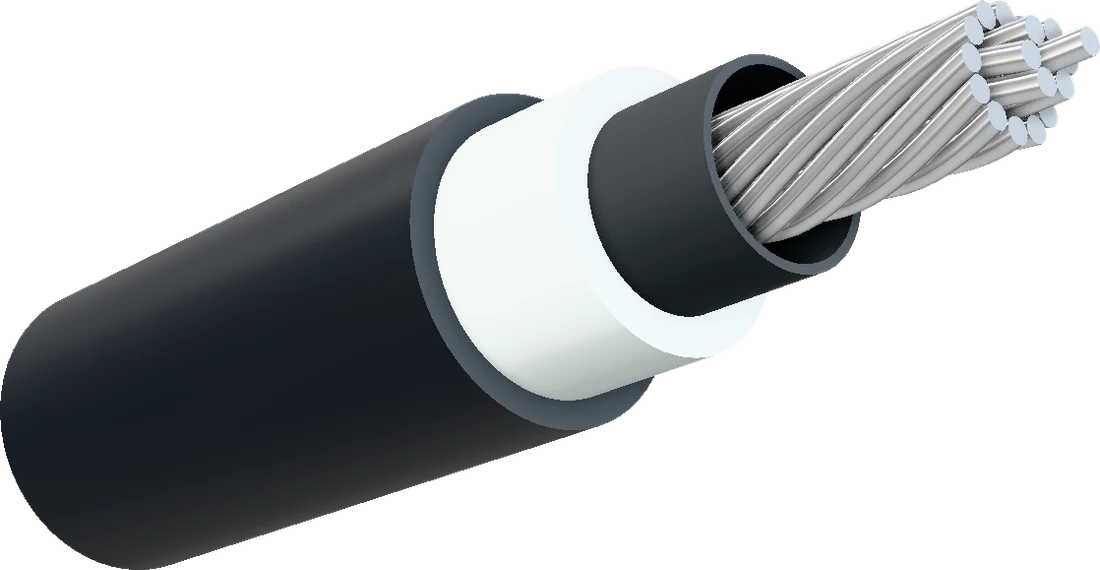
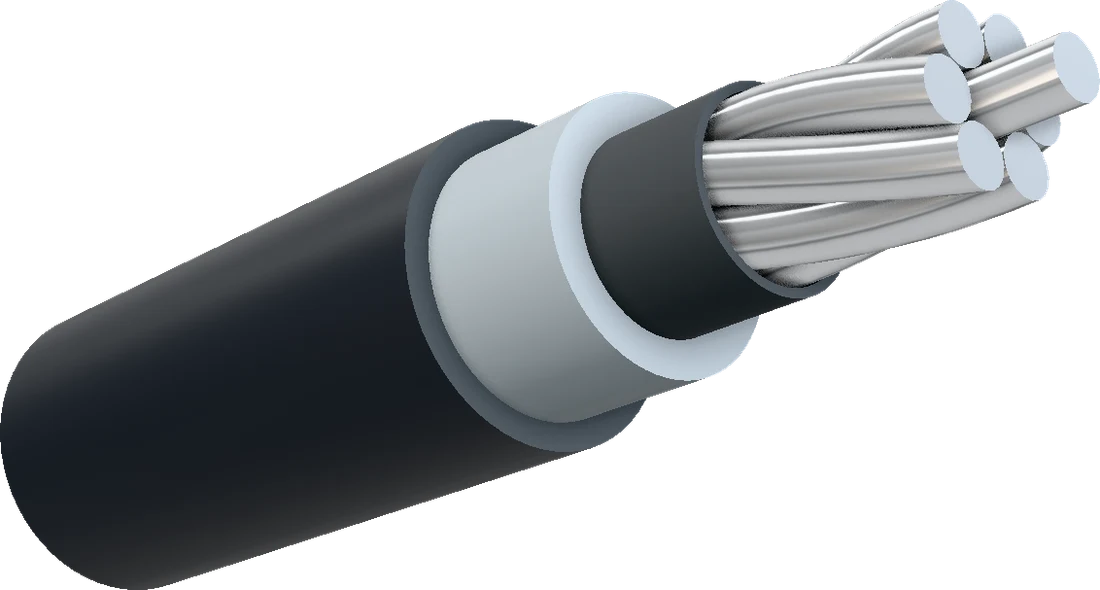
Refine service cable, MVCC, BEC and shaped-wire conductor models
- Service cable is now a flat two-core cable: oval black sheath, red and black
  insulated cores, solid aluminium conductors.
- MVCC: a 1 + 6 conductor fills the conductor screen, under a grey inner
  covering and the black outer covering.
- BEC: 19 bright galvanised steel wires, cut flush, with a long lay.
- Carbon Core, GAP and ECO Panther separate as stepped sections (each layer
  slides back and its wires part evenly, without turning), with a flat
  orthographic end view showing concentric rings.
- The range navigator drops the set links; Catalogue PDF follows Earth Wire.

diff --git a/lib/cable-separation.ts b/lib/cable-separation.ts
@@ -141,14 +141,39 @@ export function buildPowerCable(xlpe: boolean, m: CableMaterials) {
   return kit
 }
 
-/** Single-core service cable: black sheath, coloured insulation and a stranded aluminium conductor. */
+/**
+ * Two-core flat service cable: an oval black sheath around two side-by-side cores, red and black insulated, each with a
+ * solid round aluminium conductor. Separating slides the sheath back, parts the cores and peels their insulation.
+ */
 export function buildServiceCable(m: CableMaterials) {
-  const kit = layerKit('Single-core service cable')
-  kit.peel({ outer: .44, inner: .34, bottom: -2.8, top: .3, lip: 1.3, window: [.03, .36], out: .7, back: .25 }, [m.rubber, m.cutFace], 'Black outer sheath')
-  kit.peel({ outer: .29, inner: .206, bottom: -2.8, top: 2.5, lip: 1.6, split: Math.PI / 2, window: [.3, .66], out: .5, back: .18 }, [m.colours[0], m.colours[0]], 'Red insulation')
-  const strand = .203 / 5.15, positions: [number, number][] = [[0, 0]]
-  for (let ring = 1; ring <= 2; ring++) for (let i = 0; i < ring * 6; i++) { const a = i * Math.PI * 2 / (ring * 6); positions.push([Math.cos(a) * strand * 2.03 * ring, Math.sin(a) * strand * 2.03 * ring]) }
-  kit.strands({ positions, radius: strand, bottom: -2.8, still: 1.6, top: 3.05, centre: [0, 0], window: [.6, 1], spread: .32, tipLength: 1.3 }, m.aluminium, 'Stranded aluminium conductor')
+  const kit = layerKit('Two-core service cable')
+  const pitch = .29, insulation = .262, conductor = .165, bottom = -2.8
+  // Oval (flat twin) sheath: a stadium-shaped ring, extruded along the cable.
+  const stadium = (halfLength: number, radius: number) => {
+    const shape = new T.Shape()
+    shape.absarc(halfLength, 0, radius, -Math.PI / 2, Math.PI / 2, false)
+    shape.absarc(-halfLength, 0, radius, Math.PI / 2, Math.PI * 3 / 2, false)
+    return shape
+  }
+  const outline = stadium(pitch, insulation + .095), hole = stadium(pitch, insulation + .006)
+  outline.holes.push(new T.Path(hole.getPoints(48).reverse()))
+  const sheathTop = .3, sheath = new T.ExtrudeGeometry(outline, { depth: sheathTop - bottom, steps: 1, curveSegments: 36, bevelEnabled: true, bevelThickness: .012, bevelSize: .01, bevelSegments: 2 })
+  sheath.rotateX(-Math.PI / 2)
+  sheath.translate(0, bottom, 0)
+  kit.carried(sheath, [m.cutFace, m.rubber] as unknown as T.Material, (y, value) => new T.Vector3(0, -stage(value, .03, .38) * 1.1, 0), 'Black oval outer sheath')
+  const cores = [{ x: -pitch, colour: m.colours[0], insulationTop: 1.25, top: 2.85, name: 'Red' }, { x: pitch, colour: m.colours[3], insulationTop: .62, top: 2.55, name: 'Black' }]
+  cores.forEach((core, index) => {
+    // The cores part sideways, each away from the other.
+    const offset: Offset = (y, value) => new T.Vector3(Math.sign(core.x) * stage(value, .3, .7) * .32 * smooth((y + .6) / 2.4), 0, 0)
+    const centre: Offset = (y, value) => new T.Vector3(core.x, 0, 0).add(offset(y, value))
+    kit.peel({ outer: insulation, inner: conductor + .004, bottom, top: core.insulationTop, lip: .7, split: index ? Math.PI : 0, centre, window: [.56, .9], out: .32, back: .14, sides: 56 }, [core.colour, core.colour], `${core.name} insulation`)
+    // A solid round aluminium conductor, split along its length so it bends smoothly as the core parts.
+    const solid = new T.CylinderGeometry(conductor, conductor, core.top - bottom, 48, 40)
+    solid.translate(core.x, (core.top + bottom) / 2, 0)
+    kit.carried(solid, m.aluminium, offset, `${core.name} core · solid aluminium conductor`)
+  })
+  // Turn the flat side towards the viewer, so both cores show side by side.
+  kit.group.rotation.y = Math.PI / 2 - .35
   kit.separate(0)
   return kit
 }
@@ -157,14 +182,16 @@ export function buildServiceCable(m: CableMaterials) {
 export function buildCoveredConductor(m: CableMaterials) {
   const kit = layerKit('Covered conductor for overhead lines')
   kit.peel({ outer: .7, inner: .58, bottom: -2.8, top: .25, lip: 1.3, window: [.03, .3], out: 1, back: .35 }, [m.rubber, m.cutFace], 'Black weather-resistant covering')
-  kit.peel({ outer: .58, inner: .42, bottom: -2.8, top: .95, lip: 1.2, split: Math.PI / 2, window: [.24, .5], out: .85, back: .3 }, [m.pale, m.pale], 'Pale inner covering')
+  const grey = new T.MeshPhysicalMaterial({ color: 0x737b80, roughness: .5, clearcoat: .15 })
+  kit.peel({ outer: .58, inner: .42, bottom: -2.8, top: .95, lip: 1.2, split: Math.PI / 2, window: [.24, .5], out: .85, back: .3 }, [grey, grey], 'Light grey XLPE inner covering')
   kit.peel({ outer: .42, inner: .38, bottom: -2.8, top: 1.55, lip: 1, split: Math.PI / 4, window: [.44, .66], out: .65, back: .22 }, [m.bedding, m.bedding], 'Semi-conducting screen')
   const metals = conductorMaterials()
-  const built = buildConductor('aaac', metals, { length: 5.7, wire: .105, step: .16, layers: constructions.aaac.slice(0, 3) })
+  // 1 + 6 wires whose outer diameter fills the screen (inner radius .38): wire diameter .38 / 1.5, less a hair of clearance.
+  const built = buildConductor('aaac', metals, { length: 5.7, wire: .2515, step: .34, layers: constructions.aaac.slice(0, 2) })
   built.group.rotation.x = -Math.PI / 2
   built.group.position.y = 2.9
   kit.group.add(built.group)
   kit.updates.push(separableConductor(built.group, { reach: 1.5, spread: .42, from: .62, to: 1 }))
   kit.separate(0)
-  return { ...kit, dispose() { kit.dispose(); built.dispose(); Object.values(metals).forEach(material => material.dispose()) } }
+  return { ...kit, dispose() { kit.dispose(); built.dispose(); grey.dispose(); Object.values(metals).forEach(material => material.dispose()) } }
 }

diff --git a/lib/product-viewer.ts b/lib/product-viewer.ts
@@ -39,7 +39,9 @@ export function productModel(slug: string) {
     if (slug === 'acsr') layers = [...constructions.acsr, { count: 24, metal: 'aluminium', shape: 'round' }]
     if (slug === 'gi-earth-wire') layers = constructions.aac.slice(0, 3).map(layer => ({ ...layer, metal: 'steel' }))
     if (slug === 'eco-panther') layers = layers.map(layer => ({ ...layer, metal: 'alloy' }))
-    const built = buildConductor(kind, metals, { length: 6, wire: .2, step: .55, layers })
+    // BEC is cut flush, with the long lay of a buried earth strand; every other conductor shows its stepped layers.
+    const flush = slug === 'bec'
+    const built = buildConductor(kind, metals, { length: 6, wire: .2, step: flush ? 0 : .55, layers, layScale: flush ? 2.4 : 1 })
     root.add(built.group)
     // Layers flare open in place (lib/layer-separation.ts) instead of sliding apart.
     customSeparate = separableConductor(built.group)
@@ -126,6 +128,8 @@ export function createProductViewer(canvas: HTMLCanvasElement, slug: string, onR
   const endCamera = new T.OrthographicCamera(-1, 1, 1, -1, .1, 100)
   const packedPowerCable = slug === 'pvc-power-cable' || slug === 'lt-xlpe-cable'
   const aerialBunch = slug === 'aerial-bunched-cable'
+  // Shaped-wire conductors separate as stepped sections; their end view is a flat axial section of concentric rings.
+  const steppedConductor = slug === 'carbon-core' || slug === 'gap' || slug === 'eco-panther'
   let orthographicEnd = false
   let environment: ReturnType<typeof createStudioEnvironment> | null = null
   // Poster capture (scripts/render-product-posters.mjs opens the page with ?poster=1) adds ambient occlusion
@@ -172,6 +176,15 @@ export function createProductViewer(canvas: HTMLCanvasElement, slug: string, onR
     } else {
       camera.position.set(0, 0, 10.6 / zoom / Math.min(camera.aspect, 1))
       camera.lookAt(0, 0, 0)
+      if (orthographicEnd) {
+        const size = visibleBounds(model.group).getSize(new T.Vector3())
+        const halfHeight = Math.max(size.y, size.x / camera.aspect) * .62 / zoom
+        endCamera.left = -halfHeight * camera.aspect; endCamera.right = halfHeight * camera.aspect
+        endCamera.top = halfHeight; endCamera.bottom = -halfHeight
+        endCamera.position.set(0, 0, 15); endCamera.lookAt(0, 0, 0)
+        endCamera.far = 100
+        endCamera.updateProjectionMatrix()
+      }
     }
     camera.updateProjectionMatrix()
     const renderCamera = orthographicEnd ? endCamera : camera
@@ -250,7 +263,7 @@ export function createProductViewer(canvas: HTMLCanvasElement, slug: string, onR
     // Bending models rebuild vertex positions, so slider input is coalesced into the next frame.
     separate(value: number) { pendingSeparation = value; request() },
     reset() { pendingSeparation = null; orthographicEnd = false; yaw = initial.yaw; pitch = initial.pitch; roll = initial.roll; zoom = 1; model?.separate(0); request() },
-    endView() { orthographicEnd = packedPowerCable || aerialBunch; yaw = 0; pitch = 0; roll = 0; zoom = slug === 'control-cable' || packedPowerCable || aerialBunch ? 1 : 2; request(); return zoom },
+    endView() { orthographicEnd = packedPowerCable || aerialBunch || steppedConductor; yaw = 0; pitch = 0; roll = 0; zoom = slug === 'control-cable' || packedPowerCable || aerialBunch || steppedConductor ? 1 : 2; request(); return zoom },
     dispose() {
       disposed = true
       cancelAnimationFrame(frame)

diff --git a/lib/conductor-models.ts b/lib/conductor-models.ts
@@ -35,8 +35,8 @@ export const constructions: Record<ConductorKind, Layer[]> = {
   // TACSR: thermal-resistant alloy over a galvanised steel core (54/7 style).
   tacsr:[{count:1, metal:'steel', shape:'round'}, {count:6, metal:'steel', shape:'round'}, {count:12, metal:'thermal', shape:'round'}, {count:18, metal:'thermal', shape:'round'}, {count:24, metal:'thermal', shape:'round'}],
   'copper-conductor':[{count:1, metal:'copper', shape:'round'}, {count:6, metal:'copper', shape:'round'}, {count:12, metal:'copper', shape:'round'}],
-  // BEC: heavily galvanised steel strand, buried in service (7 strands of thicker wire).
-  bec:[{count:1, metal:'zinc', shape:'round', size:1.35}, {count:6, metal:'zinc', shape:'round', size:1.35}],
+  // BEC: bright galvanised steel strand, 19 wires (1 + 6 + 12), laid long and cut flush.
+  bec:[{count:1, metal:'zinc', shape:'round'}, {count:6, metal:'zinc', shape:'round'}, {count:12, metal:'zinc', shape:'round'}],
 }
 
 export function conductorMaterials() {
@@ -63,8 +63,8 @@ export function conductorMaterials() {
     // Hard-drawn copper.
     copper:new T.MeshPhysicalMaterial({color:0xd0875a, metalness:1, roughness:.2, clearcoat:.2, clearcoatRoughness:.3}),
     copperCut:new T.MeshPhysicalMaterial({color:0x8a4f2e, metalness:.6, roughness:.62, envMapIntensity:.3}),
-    // Heavy hot-dip galvanising: a pale, matt zinc grey.
-    zinc:new T.MeshPhysicalMaterial({color:0x9ea6aa, metalness:.75, roughness:.5}),
+    // Hot-dip galvanising: a bright, slightly satin zinc silver.
+    zinc:new T.MeshPhysicalMaterial({color:0xc6ccd0, metalness:.92, roughness:.26, clearcoat:.15, clearcoatRoughness:.3}),
     zincCut:new T.MeshPhysicalMaterial({color:0x4a5155, metalness:.7, roughness:.66, envMapIntensity:.45}),
     // Carbon fibre composite: near-black satin.
     carbon:new T.MeshPhysicalMaterial({color:0x1a1c1f, metalness:.15, roughness:.38, clearcoat:.6, clearcoatRoughness:.3}),
@@ -121,12 +121,12 @@ function twist(geo: T.BufferGeometry, turnsPerUnit: number) {
  * Builds a conductor along +z, its stepped end at z = 0 and its body running back to z = -length.
  * `wire` is the round wire diameter; trapezoidal layers keep the same layer thickness.
  */
-export function buildConductor(kind: ConductorKind, materials = conductorMaterials(), {length = 14, wire = .2, step = .55, layers: selectedLayers = constructions[kind], segmentsPerUnit = 10}: {length?:number; wire?:number; step?:number; layers?:Layer[]; segmentsPerUnit?:number} = {}) {
+export function buildConductor(kind: ConductorKind, materials = conductorMaterials(), {length = 14, wire = .2, step = .55, layers: selectedLayers = constructions[kind], segmentsPerUnit = 10, layScale = 1}: {length?:number; wire?:number; step?:number; layers?:Layer[]; segmentsPerUnit?:number; layScale?:number} = {}) {
   const group = new T.Group()
   const layers = selectedLayers
   const geometries: T.BufferGeometry[] = []
   let inner = 0
-  const lay = 11 * wire * layers.length // lay length grows with the conductor diameter, as in real stranding
+  const lay = 11 * wire * layers.length * layScale // lay length grows with the conductor diameter, as in real stranding
   layers.forEach((layer, index) => {
     const thickness = wire * (layer.size ?? (layer.shape === 'tube' ? .5 : 1)), gap = (layer.gap ?? 0) * wire
     const base = inner + gap                            // inner surface of this layer, after any radial gap

diff --git a/lib/layer-separation.ts b/lib/layer-separation.ts
@@ -57,8 +57,38 @@ export function separableConductor(group: T.Group, {reach = 3.4, spread = 1, fro
     return {index, count, turns, end, trapezoid, centre, solid, meshes}
   })
   const n = layers.length
+  /**
+   * Conductors with shaped (trapezoidal) wires or continuous sleeves (carbon core, gap, ECO) separate as stepped
+   * sections instead: from the outside in, each layer slides back along the conductor and its wires part evenly
+   * around the circle, keeping their own shape and orientation. Every layer then reads as a distinct ring, in side
+   * view and end view alike, instead of shaped wires turning and overlapping.
+   */
+  const stepped = layers.some(layer => layer.trapezoid || layer.solid)
+  function telescope(value: number) {
+    for (const {index, count, turns, end, solid, meshes} of layers) {
+      const order = n - 1 - index, start = .03 + order * (.6 / Math.max(1, n - 1))
+      const open = index ? stage(value, start, start + .38) : 0
+      const back = open * index * .72                    // outer layers retreat furthest: a clear stepped section
+      const part = solid ? 0 : open * (.06 + .045 * index) * spread
+      for (const {geometry, position, base, wire} of meshes) {
+        const p = position.array as Float32Array
+        for (let i = 0; i < position.count; i++) {
+          const x = base[i * 3], y = base[i * 3 + 1], z = base[i * 3 + 2]
+          // Wires part only over the exposed stretch near the cut, so the far end of the layer stays closed.
+          const along = part ? smooth((z - (end - reach)) / reach) : 0
+          const angle = wire[i] * tau / count + z * turns * tau
+          p[i * 3] = x + Math.cos(angle) * part * along
+          p[i * 3 + 1] = y + Math.sin(angle) * part * along
+          p[i * 3 + 2] = z - back
+        }
+        position.needsUpdate = true
+        geometry.computeBoundingBox(); geometry.computeBoundingSphere()
+      }
+    }
+  }
   return (input: number) => {
     const value = Math.min(1, Math.max(0, (input - from) / (to - from)))
+    if (stepped) return telescope(value)
     for (const {index, count, turns, end, trapezoid, centre, solid, meshes} of layers) {
       // The outer layer opens first and widest; each layer inside it follows. The centre wire stands forward last.
       const order = n - 1 - index, start = .03 + order * (.5 / Math.max(1, n - 2))

diff --git a/components/product-range.tsx b/components/product-range.tsx
@@ -61,18 +61,13 @@ function blocksOf(family: ProductFamily): Block[] {
   return packed
 }
 
-function Navigator({ shown, current }: { shown: ProductFamily[]; current?: string }) {
+function Navigator({ current }: { current?: string }) {
   return <nav className={styles.navigator} aria-label="Product range">
     <div className={styles.navFamilies}>
       <Link href="/products/" aria-current={!current ? 'page' : undefined}>All<span>{catalogue.length}</span></Link>
       {productStructure.map(family => <Link key={family.id} href={current ? `/${family.id}/` : `#${family.id}`} aria-current={current === family.id ? 'page' : undefined}>
         {familyNames[family.id]}<span>{countOf(family)}</span>
       </Link>)}
-    </div>
-    <div className={styles.navSets}>
-      {shown.flatMap(family => family.groups.flatMap(group => group.sets.length > 1
-        ? group.sets.map(set => <a key={set.id} href={`#${set.id}`} data-htls={set.id === 'htls' || undefined}>{set.title.replace(' conductors', '')}</a>)
-        : [<a key={group.id} href={`#${group.id}`}>{group.title}</a>]))}
       <a className={styles.navPdf} href="/media/catalogue.pdf">Catalogue PDF <Arrow diagonal/></a>
     </div>
   </nav>
@@ -102,7 +97,7 @@ export async function ProductRange({ current }: { current?: string }) {
   const titles = await editedMany(catalogue.map(product => 'product:' + product.slug))
   let first = true
   return <div className={styles.range}>
-    <Navigator shown={shown} current={current}/>
+    <Navigator current={current}/>
     {shown.map(family => <section key={family.id} id={family.id} className={styles.family} aria-labelledby={`${family.id}-title`}>
       <header className={styles.head}>
         <span className={styles.number} aria-hidden="true">0{productStructure.indexOf(family) + 1}</span>

diff --git a/components/product-range.module.css b/components/product-range.module.css
@@ -50,11 +50,8 @@
 .navFamilies a:hover { color: #fff; border-color: #ffffff44; }
 .navFamilies a[aria-current=page] { color: var(--deep); background: var(--orange); border-color: var(--orange); }
 .navFamilies a[aria-current=page] span { color: var(--deep); }
-.navSets { display: flex; flex-wrap: wrap; align-items: center; gap: 2px 14px; font-size: .74rem; font-weight: 700; }
-.navSets a { color: var(--ink-2); border-bottom: 1px solid transparent; padding-block: 2px; transition: color .2s, border-color .2s; }
-.navSets a:hover { color: #fff; border-color: #ffffff66; }
-.navSets a[data-htls] { color: #ffb08f; }
-.navSets a.navPdf { display: inline-flex; align-items: center; gap: .3rem; margin-left: 6px; padding: .3rem .6rem; border: 1px solid var(--edge); }
+.navFamilies a.navPdf { margin-left: 4px; font-weight: 700; color: #ffb08f; border-style: dashed; }
+.navFamilies a.navPdf:hover { color: #fff; border-color: #ff9a74; }
 
 /* Family band */
 .family { padding-top: clamp(20px, 2.6vw, 30px); scroll-margin-top: 170px; }
@@ -124,7 +121,6 @@
 }
 @media (max-width: 900px) {
   .navigator { position: static; }
-  .navSets { display: none; }
   .grid, .block { grid-template-columns: repeat(3, minmax(0, 1fr)); gap: 8px; }
   .head { grid-template-columns: auto minmax(0, 1fr); }
   .count { grid-column: 1 / -1; }

diff --git a/content/product-details.ts b/content/product-details.ts
@@ -148,9 +148,9 @@ export const productDetails: Record<string, ProductDetail> = {
   'service-cable': {
     pages: [4], standards: [],
     layers: [
-      { name: 'Conductor', detail: 'The conducting core connects the distribution supply to the service point.' },
-      { name: 'Insulation', detail: 'Insulation surrounds the conductor.' },
-      { name: 'Outer sheath', detail: 'An outer sheath encloses the cable, as shown in the catalogue illustration.' },
+      { name: 'Conductors', detail: 'Two solid aluminium conductors carry the supply from the distribution line to the service point.' },
+      { name: 'Insulation', detail: 'Each conductor is insulated and colour-coded, red and black, to tell the cores apart.' },
+      { name: 'Outer sheath', detail: 'A flat black outer sheath holds the two cores side by side.' },
     ],
     application: 'The connection from the main distribution supply to the customer’s premises or service point.',
     notes: [],

diff --git a/content/product-structure.ts b/content/product-structure.ts
@@ -69,7 +69,7 @@ export const productHighlights: Record<string, string> = {
   'lt-xlpe-cable': 'XLPE insulated, IS 7098',
   'pvc-power-cable': 'PVC insulated, IS 1554',
   'control-cable': 'Multi-core control',
-  'service-cable': 'Supply to service point',
+  'service-cable': 'Two-core flat, solid aluminium',
   'covered-conductor': 'Covered, up to 36 kV',
   bec: 'Galvanised steel, up to 19 strands',
   'gi-earth-wire': 'Galvanised steel, 3 to 19 strands',
